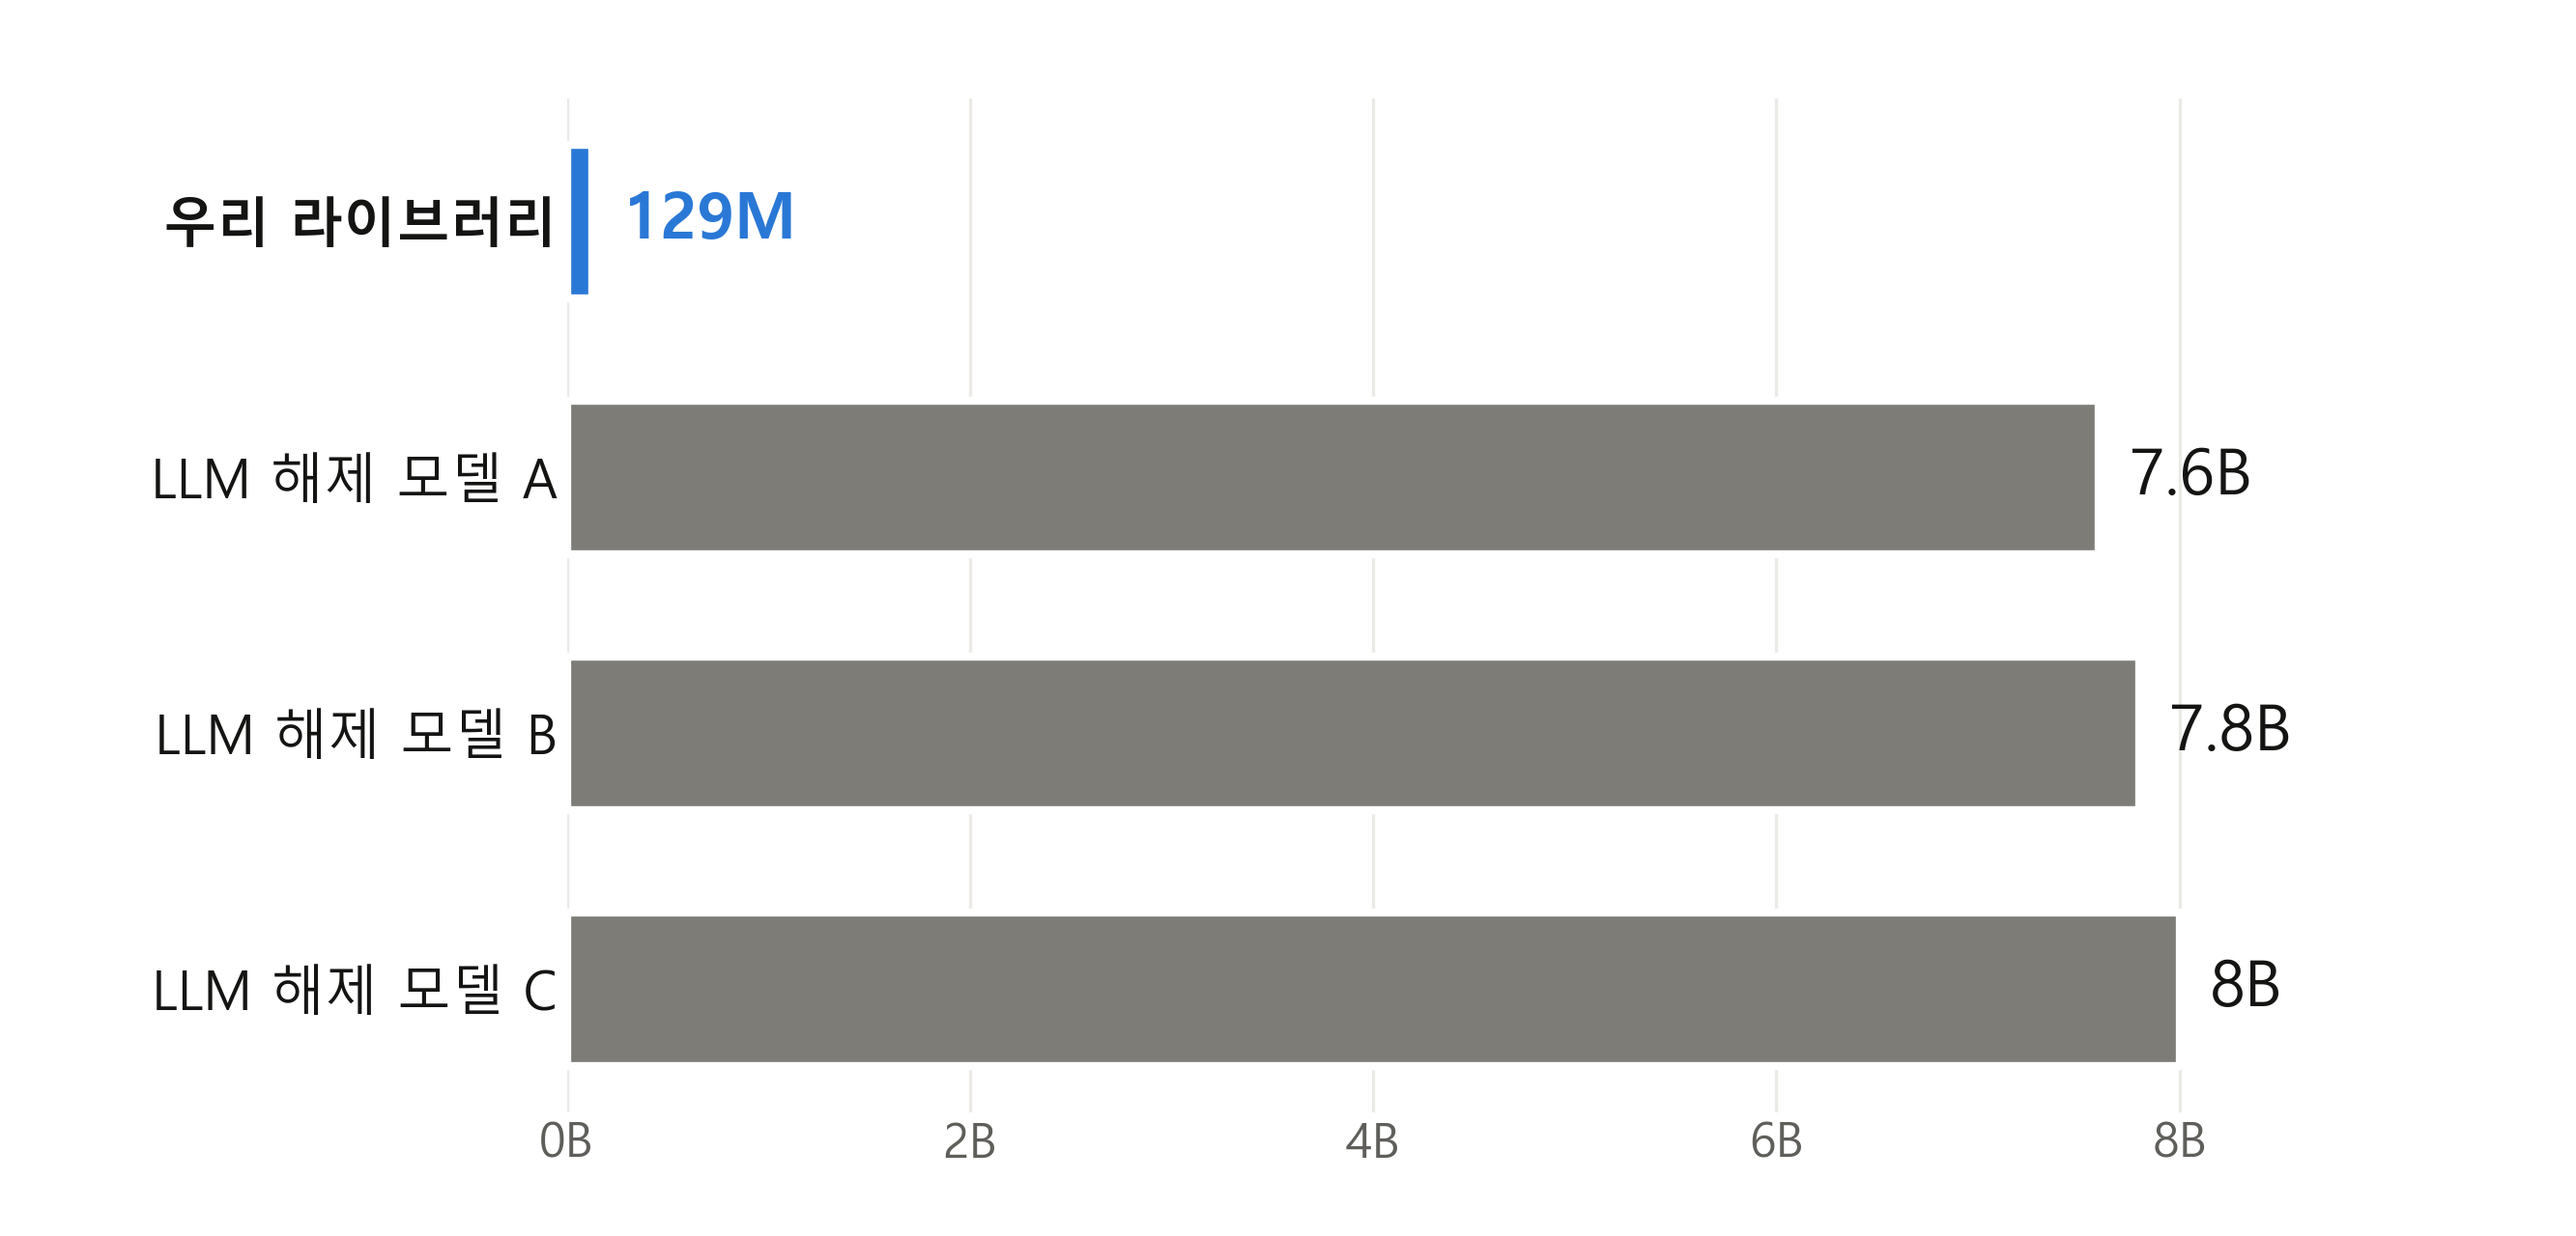
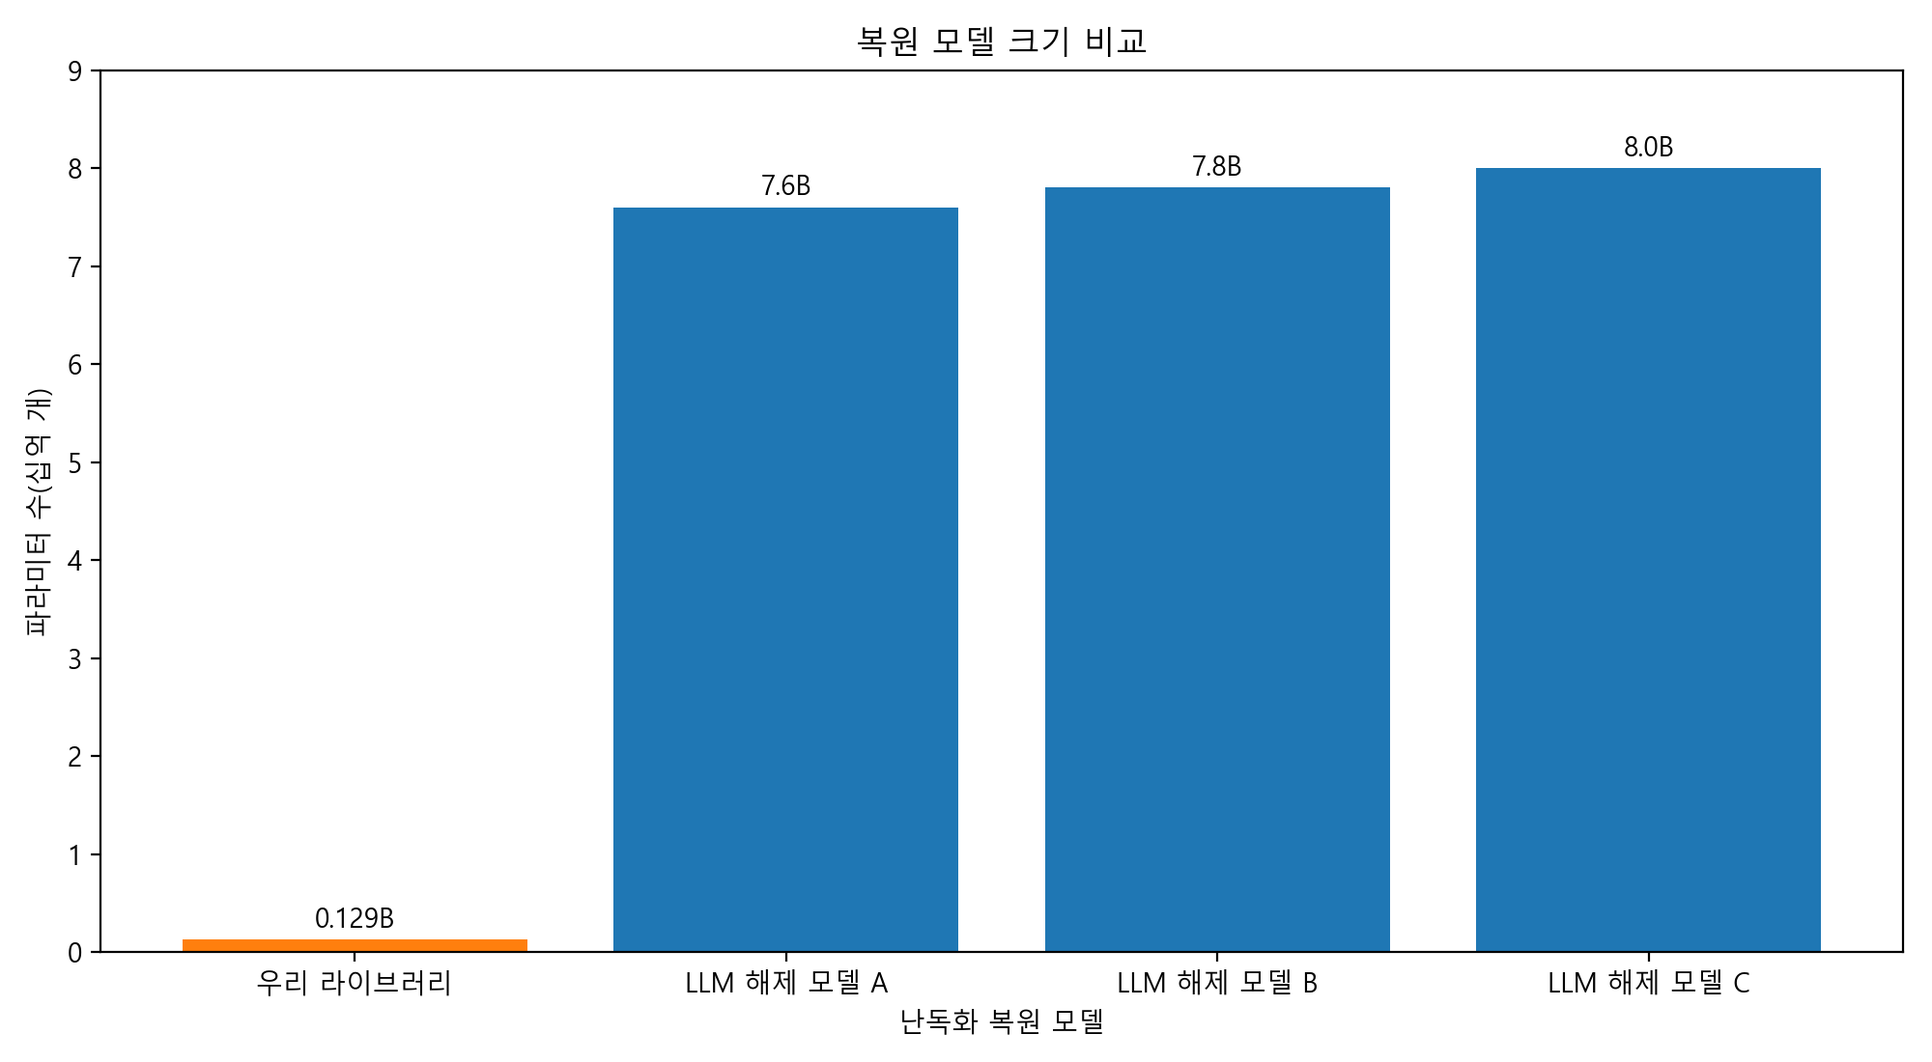
docs(guardrail): P05 슬라이드 그림을 matplotlib 기본 테마 묶음 막대그래프로 변경

diff --git a/guardrail/exp/p05_profanity/make_slides.py b/guardrail/exp/p05_profanity/make_slides.py
@@ -1,6 +1,7 @@
-"""p05 발표용 슬라이드 그림 — 그래프와 범례만 그린다. 제목·설명·각주는 PPT에서 쓰도록 `slides_text.md`로 따로 낸다.
+"""p05 발표용 슬라이드 그림 — matplotlib 기본 테마(기본 색 C0·C1, 한글 글꼴만 지정)의 묶음 막대그래프.
+슬라이드 문구(제목·설명·각주)는 PPT에서 쓰도록 `slides_text.md`로 따로 낸다.
 
-기존 필터는 회색, 우리 라이브러리는 파란색 하나로 강조한다. "우리 라이브러리"는 원문 OR 복원문 결합(실행 전 등록 구성,
+막대는 기존 필터만(C0 파랑)과 기존 필터 + 우리 라이브러리(C1 주황)다. "우리 라이브러리"는 원문 OR 복원문 결합(실행 전 등록 구성,
 p05-mixed-obfuscation)이고, 지표는 난독화된 욕설 중 차단된 비율(감지율)이다. 모든 수치는 results/p05.*/scores.jsonl에서
 다시 계산한다.
 
@@ -19,16 +20,11 @@ import matplotlib
 
 matplotlib.use("Agg")
 import matplotlib.pyplot as plt
-from matplotlib.ticker import FuncFormatter
 
 ROOT = Path(__file__).resolve().parents[3]
 RES, OUT = ROOT / "guardrail" / "results", ROOT / "guardrail" / "reports" / "figures" / "p05"
-plt.rcParams.update({"font.family": "Malgun Gothic", "axes.unicode_minus": False})
+plt.rcParams.update({"font.family": "Malgun Gothic", "axes.unicode_minus": False})   # 한글 글꼴만. 나머지는 matplotlib 기본
 
-SURF, INK, INK2, GRID = "#ffffff", "#141413", "#5f5e5a", "#ebeae6"
-OURS, BASE = "#2a78d6", "#7d7c77"
-W, H = 13.33, 6.4                       # PPT 제목 아래 본문 영역(16:9 슬라이드의 약 85%)
-PCT = FuncFormatter(lambda v, _: f"{v:.0f}%")
 
 NAME = {"jamo_decompose": "자모 분해", "phon_insert": "받침·반모음 추가", "spacing": "띄어쓰기", "symbol_insert": "기호 삽입",
         "phon_vowel": "모음 교체", "phon_initial": "초성 교체·된소리", "shape_foreign": "닮은 외국문자", "chosung": "초성체",
@@ -67,49 +63,37 @@ def clean_fpr(base: str, restored: str) -> tuple[float, float]:
             100 * sum(b[i]["flagged"] or r[i]["flagged"] for i in neg) / len(neg))
 
 
-def figure(legend: bool = True):
-    fig = plt.figure(figsize=(W, H), facecolor=SURF)
-    if legend:
-        fig.text(0.04, 0.93, "●", color=BASE, fontsize=24, va="center")
-        fig.text(0.07, 0.93, "기존 필터만", color=INK, fontsize=20, va="center")
-        fig.text(0.25, 0.93, "●", color=OURS, fontsize=24, va="center")
-        fig.text(0.28, 0.93, "기존 필터 + 우리 라이브러리", color=INK, fontsize=20, va="center", fontweight="bold")
-    return fig
+FIGSIZE = (10, 5.5)
+LABELS = ("기존 필터만", "기존 필터 + 우리 라이브러리")
 
 
-def clean(ax, grid="x"):
-    ax.set_facecolor(SURF)
-    for s in ax.spines.values():
-        s.set_visible(False)
-    ax.tick_params(length=0, colors=INK2, labelsize=18)
-    getattr(ax, f"{grid}axis").grid(True, color=GRID, lw=1.2)
-    ax.set_axisbelow(True)
-
-
-def dumbbell(ax, labels, pairs, xlim, delta_x):
-    ys = list(range(len(labels)))[::-1]
-    for y, (lo, hi) in zip(ys, pairs):
-        ax.plot([lo, hi], [y, y], color=OURS, lw=6, alpha=0.22, solid_capstyle="round", zorder=1)
-        ax.scatter([lo], [y], s=420, color=BASE, zorder=3, edgecolor=SURF, linewidth=3)
-        ax.scatter([hi], [y], s=520, color=OURS, zorder=4, edgecolor=SURF, linewidth=3)
-        ax.text(lo - 1.6, y, f"{lo:.0f}%", ha="right", va="center", fontsize=20, color=INK2)
-        ax.text(hi + 1.6, y, f"{hi:.0f}%", ha="left", va="center", fontsize=22, color=INK, fontweight="bold")
-        ax.text(delta_x, y, f"+{hi - lo:.0f}%p", ha="left", va="center", fontsize=24, color=OURS, fontweight="bold")
-    ax.set_yticks(ys); ax.set_yticklabels(labels, fontsize=19, color=INK)
-    ax.set_xlim(*xlim); ax.set_ylim(-0.6, len(labels) - 0.4)
-    ax.xaxis.set_major_formatter(PCT)
+def grouped(categories, lo, hi, title, xlabel, name, rot=0):
+    """matplotlib 기본 테마의 묶음 막대그래프. 막대 위에 값을 적는다."""
+    fig, ax = plt.subplots(figsize=FIGSIZE)
+    x = list(range(len(categories)))
+    w = 0.38
+    b1 = ax.bar([i - w / 2 for i in x], lo, w, label=LABELS[0])
+    b2 = ax.bar([i + w / 2 for i in x], hi, w, label=LABELS[1])
+    ax.bar_label(b1, fmt="%.0f%%", padding=2)
+    ax.bar_label(b2, fmt="%.0f%%", padding=2)
+    ax.set_xticks(x)
+    ax.set_xticklabels(categories, rotation=rot)
+    ax.set_ylim(0, 100)
+    ax.set_ylabel("감지율(%)")
+    ax.set_xlabel(xlabel)
+    ax.set_title(title)
+    ax.legend()
+    fig.tight_layout()
+    fig.savefig(OUT / name, dpi=200)
+    plt.close(fig)
 
 
 def slide1() -> dict:
     keys = list(RUNS)
     vals = {k: detect(*RUNS[k])["all"] for k in keys}
-    fig = figure()
-    ax = fig.add_axes([0.37, 0.09, 0.58, 0.75]); clean(ax)
-    labels = [f"{f} · {DATA[d]}" if d != "single" else f"{f} · {DATA[d]}" for f, d in keys]
-    dumbbell(ax, labels, [vals[k][:2] for k in keys], (30, 100), 90)
-    ax.axhline(1.5, color=GRID, lw=2)
-    fig.savefig(OUT / "slide_1_detection.png", dpi=200, facecolor=SURF)
-    plt.close(fig)
+    short = {"single": "단일", "d1": "섞은 1", "d2": "섞은 2"}
+    grouped([f"{f}\n{short[d]}" for f, d in keys], [vals[k][0] for k in keys], [vals[k][1] for k in keys],
+            "난독화된 욕설 감지율", "필터 · 데이터셋", "slide_1_detection.png")
     return vals
 
 
@@ -118,49 +102,31 @@ def slide2() -> dict:
     ns = sorted(k for k in d if d[k][2] > 100)
     xs = [int(k.split("=")[1]) for k in ns]
     lo, hi = [d[k][0] for k in ns], [d[k][1] for k in ns]
-    fig = figure()
-    ax = fig.add_axes([0.08, 0.14, 0.80, 0.70]); clean(ax, "y")
-    ax.fill_between(xs, lo, hi, color=OURS, alpha=0.10, lw=0)
-    ax.plot(xs, lo, color=BASE, lw=5, marker="o", ms=18, mec=SURF, mew=3)
-    ax.plot(xs, hi, color=OURS, lw=5.5, marker="o", ms=19, mec=SURF, mew=3)
-    for x, a, b in zip(xs, lo, hi):
-        ax.text(x, a - 3.6, f"{a:.0f}%", ha="center", va="top", fontsize=21, color=INK2)
-        ax.text(x, b + 3.0, f"{b:.0f}%", ha="center", va="bottom", fontsize=22, color=INK, fontweight="bold")
-    ax.text(xs[-1] + 0.14, (lo[-1] + hi[-1]) / 2, f"+{hi[-1] - lo[-1]:.0f}%p", fontsize=30, color=OURS,
-            fontweight="bold", va="center")
-    ax.set_xticks(xs); ax.set_xticklabels([f"기법 {x}개" for x in xs], fontsize=20, color=INK)
-    ax.set_xlim(xs[0] - 0.35, xs[-1] + 0.75); ax.set_ylim(30, 90)
-    ax.yaxis.set_major_formatter(PCT)
-    fig.savefig(OUT / "slide_2_mixed.png", dpi=200, facecolor=SURF)
-    plt.close(fig)
+    grouped([f"{x}개" for x in xs], lo, hi, "섞은 기법 수별 감지율 (kor_unsmile, 데이터셋 1)", "한 문장에 섞은 기법 수",
+            "slide_2_mixed.png")
     return {"ns": xs, "lo": lo, "hi": hi}
 
 
 def slide3() -> dict:
     d = detect(*RUNS[("kor_unsmile", "single")], key=lambda x: x["type"])
-    top = sorted(d, key=lambda k: -(d[k][1] - d[k][0]))[:6]
-    fig = figure()
-    ax = fig.add_axes([0.25, 0.09, 0.70, 0.75]); clean(ax)
-    dumbbell(ax, [NAME[k] for k in top], [d[k][:2] for k in top], (40, 100), 91.5)
-    fig.savefig(OUT / "slide_3_by_type.png", dpi=200, facecolor=SURF)
-    plt.close(fig)
-    return {k: d[k] for k in sorted(d, key=lambda k: -(d[k][1] - d[k][0]))}
+    order = sorted(d, key=lambda k: -(d[k][1] - d[k][0]))
+    top = order[:6]
+    grouped([NAME[k] for k in top], [d[k][0] for k in top], [d[k][1] for k in top],
+            "난독화 유형별 감지율 (kor_unsmile, 단일 난독화, 향상폭 상위 6유형)", "난독화 유형", "slide_3_by_type.png")
+    return {k: d[k] for k in order}
 
 
 def slide4() -> list:
-    models = [("우리 라이브러리", 0.129, OURS), ("LLM 해제 모델 A", 7.6, BASE),
-              ("LLM 해제 모델 B", 7.8, BASE), ("LLM 해제 모델 C", 8.0, BASE)]
-    fig = figure(legend=False)
-    ax = fig.add_axes([0.22, 0.10, 0.72, 0.82]); clean(ax)
-    ys = list(range(len(models)))[::-1]
-    for y, (n, v, c) in zip(ys, models):
-        ax.barh(y, v, height=0.6, color=c, edgecolor=SURF, linewidth=3)
-        ax.text(v + 0.15, y, f"{v:g}B" if v >= 1 else f"{v * 1000:.0f}M", va="center", fontsize=24,
-                color=OURS if c == OURS else INK, fontweight="bold" if c == OURS else "normal")
-    ax.set_yticks(ys); ax.set_yticklabels([m[0] for m in models], fontsize=20, color=INK)
-    ax.get_yticklabels()[0].set_fontweight("bold")
-    ax.set_xlim(0, 9.2); ax.xaxis.set_major_formatter(FuncFormatter(lambda v, _: f"{v:.0f}B"))
-    fig.savefig(OUT / "slide_4_size.png", dpi=200, facecolor=SURF)
+    models = [("우리 라이브러리", 0.129), ("LLM 해제 모델 A", 7.6), ("LLM 해제 모델 B", 7.8), ("LLM 해제 모델 C", 8.0)]
+    fig, ax = plt.subplots(figsize=FIGSIZE)
+    bars = ax.bar([m[0] for m in models], [m[1] for m in models], color=["C1", "C0", "C0", "C0"])
+    ax.bar_label(bars, labels=["0.129B", "7.6B", "7.8B", "8.0B"], padding=2)
+    ax.set_ylabel("파라미터 수(십억 개)")
+    ax.set_xlabel("난독화 복원 모델")
+    ax.set_title("복원 모델 크기 비교")
+    ax.set_ylim(0, 9)
+    fig.tight_layout()
+    fig.savefig(OUT / "slide_4_size.png", dpi=200)
     plt.close(fig)
     return models
 
